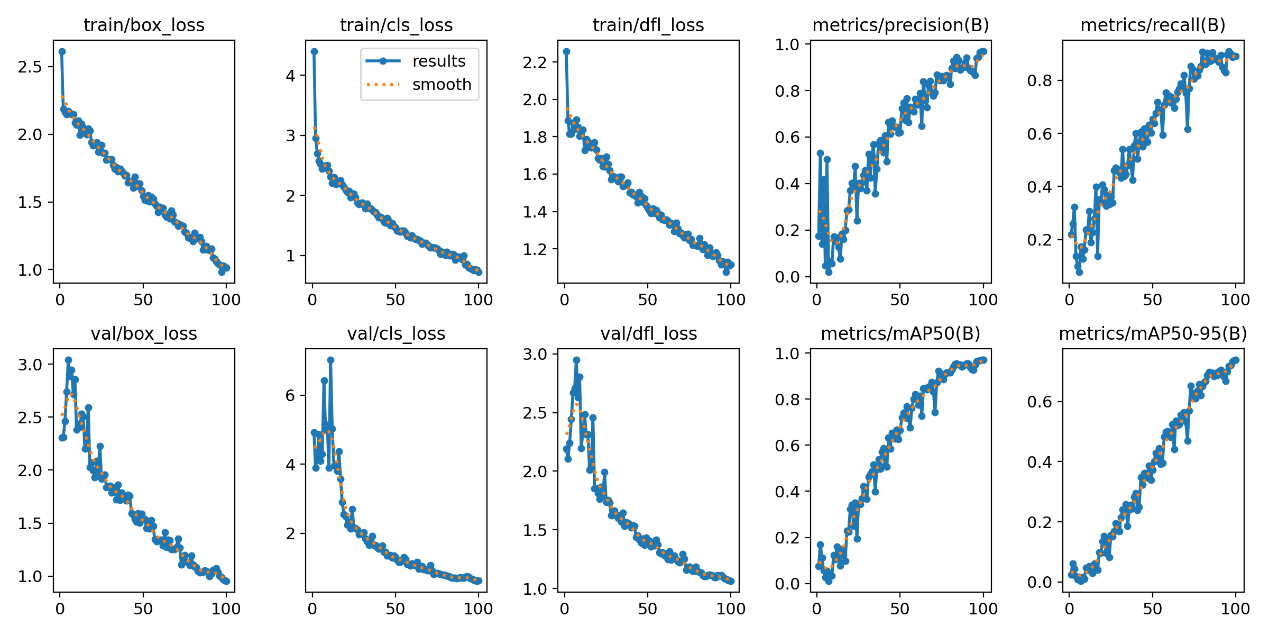
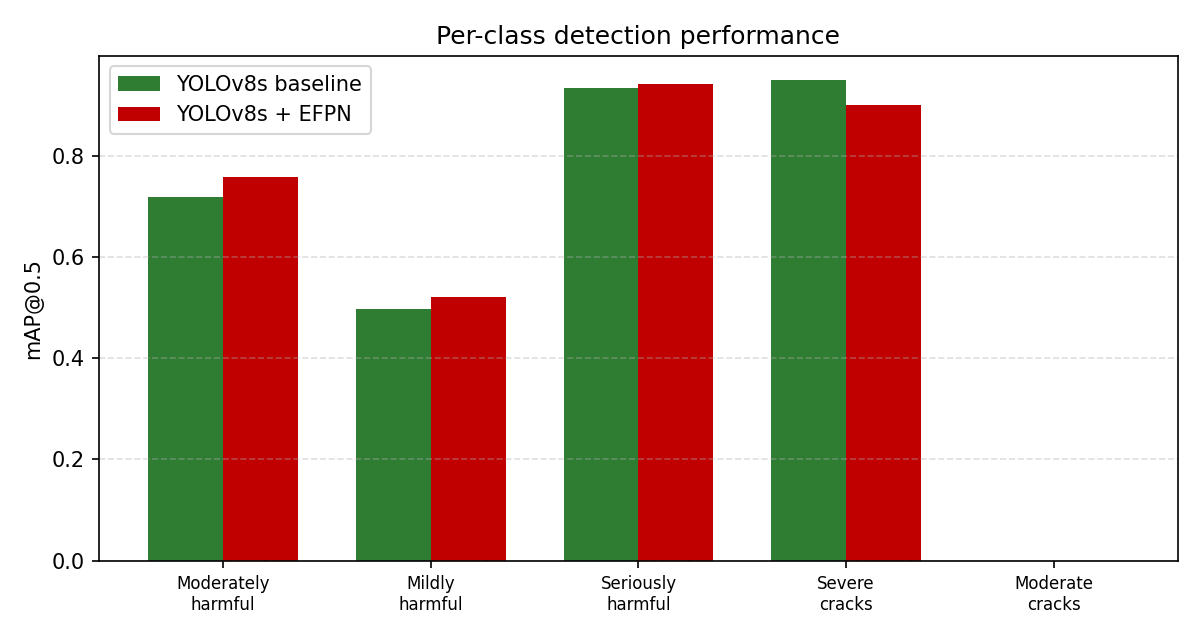
Update gallery to latest paper figures and add GitHub link
- Prediction gallery: replace 1 stale image with 4 current figures from the
  BP-LSTM paper (framework, research workflow, TQM factor framework,
  ten-algorithm performance comparison)
- Inspection gallery: rebuild from the current robotic-dog paper
  (detection performance, CBAM/EFPN ablation, per-class performance,
  qualitative examples, field validation, training curves, F1 curve)
- Correct inspection captions: proposed detector is improved YOLOv8 (EFPN)
- Add GitHub link to hero contacts, contact card and footer
- Remove superseded/duplicate images

diff --git a/index-en.html b/index-en.html
@@ -63,6 +63,10 @@
           <svg viewBox="0 0 24 24" fill="none" stroke="currentColor" stroke-width="2"><path d="M20 10c0 6-8 12-8 12s-8-6-8-12a8 8 0 0 1 16 0z"/><circle cx="12" cy="10" r="3"/></svg>
           Hong Kong SAR, China
         </span>
+        <a href="https://github.com/xiao-yang-sanyi" target="_blank" rel="noopener">
+          <svg viewBox="0 0 24 24" fill="none" stroke="currentColor" stroke-width="2"><path d="M9 19c-5 1.5-5-2.5-7-3m14 6v-3.87a3.37 3.37 0 0 0-.94-2.61c3.14-.35 6.44-1.54 6.44-7A5.44 5.44 0 0 0 20 4.77 5.07 5.07 0 0 0 19.91 1S18.73.65 16 2.48a13.38 13.38 0 0 0-7 0C6.27.65 5.09 1 5.09 1A5.07 5.07 0 0 0 5 4.77a5.44 5.44 0 0 0-1.5 3.78c0 5.42 3.3 6.61 6.44 7A3.37 3.37 0 0 0 9 18.13V22"/></svg>
+          github.com/xiao-yang-sanyi
+        </a>
       </div>
     </div>
 
@@ -546,52 +550,67 @@
         <span class="zoom">⤢</span>
       </figure>
 
-      <!-- Prediction -->
+            <!-- Prediction -->
       <figure class="g-item" data-cat="predict">
-        <img class="thumb" src="assets/img/bplstm-model.png" alt="BP-LSTM network" loading="lazy" />
-        <div class="cap"><span class="tag">Prediction · Fig. 4</span>BP‑LSTM dual-stream network and model comparison</div>
+        <img class="thumb" src="assets/img/bplstm-framework.png" alt="LSTM-based quality prediction framework" loading="lazy" />
+        <div class="cap"><span class="tag">Prediction · Fig. 2</span>LSTM-based quality prediction framework</div>
+        <span class="zoom">⤢</span>
+      </figure>
+      <figure class="g-item" data-cat="predict">
+        <img class="thumb" src="assets/img/bplstm-workflow.png" alt="Research workflow for quality prediction" loading="lazy" />
+        <div class="cap"><span class="tag">Prediction · Fig. 3</span>Research workflow for quality prediction</div>
+        <span class="zoom">⤢</span>
+      </figure>
+      <figure class="g-item" data-cat="predict">
+        <img class="thumb" src="assets/img/bplstm-factors.png" alt="TQM total-factor framework" loading="lazy" />
+        <div class="cap"><span class="tag">Prediction · Fig. 4</span>TQM total-factor framework (12 influence factors)</div>
+        <span class="zoom">⤢</span>
+      </figure>
+      <figure class="g-item" data-cat="predict">
+        <img class="thumb" src="assets/img/bplstm-comparison.png" alt="Comparison of ten algorithms" loading="lazy" />
+        <div class="cap"><span class="tag">Prediction · Fig. 5</span>Performance comparison of ten algorithms (MAE / R² / error rate / RSE)</div>
         <span class="zoom">⤢</span>
       </figure>
 
       <!-- Inspection -->
       <figure class="g-item" data-cat="inspect">
-        <img class="thumb" src="assets/img/crack-framework.png" alt="Robotic inspection framework" loading="lazy" />
-        <div class="cap"><span class="tag">Inspection · Fig. 1</span>Proposed robotic inspection framework</div>
+        <img class="thumb" src="assets/img/crack-framework.png" alt="Robotic crack detection and risk assessment framework" loading="lazy" />
+        <div class="cap"><span class="tag">Inspection · Fig. 1</span>Robotic crack detection and risk assessment framework</div>
         <span class="zoom">⤢</span>
       </figure>
       <figure class="g-item" data-cat="inspect">
-        <img class="thumb" src="assets/img/crack-detection-1.png" alt="Detection comparison results" loading="lazy" />
-        <div class="cap"><span class="tag">Inspection</span>Detection comparison test results</div>
+        <img class="thumb" src="assets/img/crack-det-perf.png" alt="Detection performance of tested detectors" loading="lazy" />
+        <div class="cap"><span class="tag">Inspection · Fig. 3</span>Detection performance (mAP@0.5) of tested detectors</div>
         <span class="zoom">⤢</span>
       </figure>
       <figure class="g-item" data-cat="inspect">
-        <img class="thumb" src="assets/img/crack-detection-2.png" alt="Feature fusion ablation results" loading="lazy" />
-        <div class="cap"><span class="tag">Inspection</span>Feature fusion ablation results</div>
+        <img class="thumb" src="assets/img/crack-ablation.png" alt="Ablation of CBAM and EFPN" loading="lazy" />
+        <div class="cap"><span class="tag">Inspection · Fig. 4</span>Ablation of the CBAM module and the EFPN neck</div>
         <span class="zoom">⤢</span>
       </figure>
       <figure class="g-item" data-cat="inspect">
-        <img class="thumb" src="assets/img/crack-ablation.png" alt="Ablation study accuracy impact" loading="lazy" />
-        <div class="cap"><span class="tag">Inspection · Fig. 2</span>Ablation study accuracy impact</div>
+        <img class="thumb" src="assets/img/crack-perclass.png" alt="Per-class detection performance" loading="lazy" />
+        <div class="cap"><span class="tag">Inspection · Fig. 5</span>Per-class crack detection performance</div>
         <span class="zoom">⤢</span>
       </figure>
       <figure class="g-item" data-cat="inspect">
-        <img class="thumb" src="assets/img/crack-field-1.png" alt="Improved YOLOv8 (EFPN) vs YOLOv11 comparison" loading="lazy" />
-        <div class="cap"><span class="tag">Inspection</span>Improved YOLOv8 (EFPN) vs. YOLOv11 comparison</div>
+        <img class="thumb" src="assets/img/crack-qualitative.png" alt="Qualitative crack detection examples" loading="lazy" />
+        <div class="cap"><span class="tag">Inspection · Fig. 6</span>Qualitative detection examples on precast components</div>
         <span class="zoom">⤢</span>
       </figure>
       <figure class="g-item" data-cat="inspect">
-        <img class="thumb" src="assets/img/crack-field-2.png" alt="Field inspection results" loading="lazy" />
-        <div class="cap"><span class="tag">Inspection</span>Field inspection results on prefabricated components</div>
+        <img class="thumb" src="assets/img/crack-field.png" alt="Field validation on the Unitree B2" loading="lazy" />
+        <div class="cap"><span class="tag">Inspection · Fig. 7</span>Field validation: severity grading vs. coarse detector</div>
         <span class="zoom">⤢</span>
       </figure>
       <figure class="g-item" data-cat="inspect">
-        <img class="thumb" src="assets/img/crack-perclass.png" alt="Per-class detection accuracy" loading="lazy" />
-        <div class="cap"><span class="tag">Inspection · Fig. 3</span>Per-class detection accuracy comparison</div>
+        <img class="thumb" src="assets/img/crack-training.png" alt="Model training curves" loading="lazy" />
+        <div class="cap"><span class="tag">Inspection</span>Model training curves</div>
         <span class="zoom">⤢</span>
       </figure>
       <figure class="g-item" data-cat="inspect">
-        <img class="thumb" src="assets/img/crack-matrix.png" alt="Detection evaluation summary" loading="lazy" />
-        <div class="cap"><span class="tag">Inspection</span>Detection evaluation summary</div>
+        <img class="thumb" src="assets/img/crack-f1.png" alt="F1-confidence curve" loading="lazy" />
+        <div class="cap"><span class="tag">Inspection</span>F1–confidence curve</div>
         <span class="zoom">⤢</span>
       </figure>
     </div>
@@ -618,6 +637,10 @@
           <svg viewBox="0 0 24 24" fill="none" stroke="currentColor" stroke-width="2"><path d="M20 10c0 6-8 12-8 12s-8-6-8-12a8 8 0 0 1 16 0z"/><circle cx="12" cy="10" r="3"/></svg>
           Hong Kong SAR, China
         </span>
+        <a class="c" href="https://github.com/xiao-yang-sanyi" target="_blank" rel="noopener">
+          <svg viewBox="0 0 24 24" fill="none" stroke="currentColor" stroke-width="2"><path d="M9 19c-5 1.5-5-2.5-7-3m14 6v-3.87a3.37 3.37 0 0 0-.94-2.61c3.14-.35 6.44-1.54 6.44-7A5.44 5.44 0 0 0 20 4.77 5.07 5.07 0 0 0 19.91 1S18.73.65 16 2.48a13.38 13.38 0 0 0-7 0C6.27.65 5.09 1 5.09 1A5.07 5.07 0 0 0 5 4.77a5.44 5.44 0 0 0-1.5 3.78c0 5.42 3.3 6.61 6.44 7A3.37 3.37 0 0 0 9 18.13V22"/></svg>
+          GitHub · xiao-yang-sanyi
+        </a>
       </div>
       <a class="btn btn-primary" href="mailto:yanggj.xiao@connect.polyu.hk">Email Me ✉</a>
     </div>
@@ -627,7 +650,8 @@
 <footer class="site-footer">
   <div class="container">
     <span class="mono">Yanggongjie Xiao · 肖阳功杰</span> — Academic Portfolio<br />
-    © <span id="year">2026</span> · Intelligent Construction · Quality Management · Multimodal Intelligence
+    © <span id="year">2026</span> · Intelligent Construction · Quality Management · Multimodal Intelligence<br />
+    <a href="https://github.com/xiao-yang-sanyi" target="_blank" rel="noopener">github.com/xiao-yang-sanyi</a>
   </div>
 </footer>
 

diff --git a/index.html b/index.html
@@ -66,6 +66,10 @@
           <svg viewBox="0 0 24 24" fill="none" stroke="currentColor" stroke-width="2"><path d="M20 10c0 6-8 12-8 12s-8-6-8-12a8 8 0 0 1 16 0z"/><circle cx="12" cy="10" r="3"/></svg>
           香港 · 中国 Hong Kong SAR
         </span>
+        <a href="https://github.com/xiao-yang-sanyi" target="_blank" rel="noopener">
+          <svg viewBox="0 0 24 24" fill="none" stroke="currentColor" stroke-width="2"><path d="M9 19c-5 1.5-5-2.5-7-3m14 6v-3.87a3.37 3.37 0 0 0-.94-2.61c3.14-.35 6.44-1.54 6.44-7A5.44 5.44 0 0 0 20 4.77 5.07 5.07 0 0 0 19.91 1S18.73.65 16 2.48a13.38 13.38 0 0 0-7 0C6.27.65 5.09 1 5.09 1A5.07 5.07 0 0 0 5 4.77a5.44 5.44 0 0 0-1.5 3.78c0 5.42 3.3 6.61 6.44 7A3.37 3.37 0 0 0 9 18.13V22"/></svg>
+          github.com/xiao-yang-sanyi
+        </a>
       </div>
     </div>
 
@@ -549,52 +553,67 @@
         <span class="zoom">⤢</span>
       </figure>
 
-      <!-- Prediction -->
+            <!-- Prediction -->
       <figure class="g-item" data-cat="predict">
-        <img class="thumb" src="assets/img/bplstm-model.png" alt="BP-LSTM network" loading="lazy" />
-        <div class="cap"><span class="tag">Prediction · Fig. 4</span>BP‑LSTM 双流网络与对比验证</div>
+        <img class="thumb" src="assets/img/bplstm-framework.png" alt="LSTM-based quality prediction framework" loading="lazy" />
+        <div class="cap"><span class="tag">Prediction · Fig. 2</span>LSTM 质量预测框架</div>
+        <span class="zoom">⤢</span>
+      </figure>
+      <figure class="g-item" data-cat="predict">
+        <img class="thumb" src="assets/img/bplstm-workflow.png" alt="Research workflow for quality prediction" loading="lazy" />
+        <div class="cap"><span class="tag">Prediction · Fig. 3</span>质量预测研究流程</div>
+        <span class="zoom">⤢</span>
+      </figure>
+      <figure class="g-item" data-cat="predict">
+        <img class="thumb" src="assets/img/bplstm-factors.png" alt="TQM total-factor framework" loading="lazy" />
+        <div class="cap"><span class="tag">Prediction · Fig. 4</span>TQM 全面影响因素框架（12 个影响因素）</div>
+        <span class="zoom">⤢</span>
+      </figure>
+      <figure class="g-item" data-cat="predict">
+        <img class="thumb" src="assets/img/bplstm-comparison.png" alt="Comparison of ten algorithms" loading="lazy" />
+        <div class="cap"><span class="tag">Prediction · Fig. 5</span>十种算法性能对比（MAE / R² / 误差率 / RSE）</div>
         <span class="zoom">⤢</span>
       </figure>
 
       <!-- Inspection -->
       <figure class="g-item" data-cat="inspect">
-        <img class="thumb" src="assets/img/crack-framework.png" alt="Robotic inspection framework" loading="lazy" />
-        <div class="cap"><span class="tag">Inspection · Fig. 1</span>机器人智能检测框架</div>
+        <img class="thumb" src="assets/img/crack-framework.png" alt="Robotic crack detection and risk assessment framework" loading="lazy" />
+        <div class="cap"><span class="tag">Inspection · Fig. 1</span>机器人裂缝检测与风险评估总体框架</div>
         <span class="zoom">⤢</span>
       </figure>
       <figure class="g-item" data-cat="inspect">
-        <img class="thumb" src="assets/img/crack-detection-1.png" alt="Detection comparison results" loading="lazy" />
-        <div class="cap"><span class="tag">Inspection</span>检测对比测试结果</div>
+        <img class="thumb" src="assets/img/crack-det-perf.png" alt="Detection performance of tested detectors" loading="lazy" />
+        <div class="cap"><span class="tag">Inspection · Fig. 3</span>各检测器 mAP@0.5 性能对比</div>
         <span class="zoom">⤢</span>
       </figure>
       <figure class="g-item" data-cat="inspect">
-        <img class="thumb" src="assets/img/crack-detection-2.png" alt="Feature fusion ablation results" loading="lazy" />
-        <div class="cap"><span class="tag">Inspection</span>特征融合消融实验结果</div>
+        <img class="thumb" src="assets/img/crack-ablation.png" alt="Ablation of CBAM and EFPN" loading="lazy" />
+        <div class="cap"><span class="tag">Inspection · Fig. 4</span>CBAM 与 EFPN 消融实验</div>
         <span class="zoom">⤢</span>
       </figure>
       <figure class="g-item" data-cat="inspect">
-        <img class="thumb" src="assets/img/crack-ablation.png" alt="Ablation study accuracy impact" loading="lazy" />
-        <div class="cap"><span class="tag">Inspection · Fig. 2</span>消融实验精度影响</div>
+        <img class="thumb" src="assets/img/crack-perclass.png" alt="Per-class detection performance" loading="lazy" />
+        <div class="cap"><span class="tag">Inspection · Fig. 5</span>各类别裂缝检测性能对比</div>
         <span class="zoom">⤢</span>
       </figure>
       <figure class="g-item" data-cat="inspect">
-        <img class="thumb" src="assets/img/crack-field-1.png" alt="Improved YOLOv8 (EFPN) vs YOLOv11 comparison" loading="lazy" />
-        <div class="cap"><span class="tag">Inspection</span>改进 YOLOv8（EFPN）与 YOLOv11 对比</div>
+        <img class="thumb" src="assets/img/crack-qualitative.png" alt="Qualitative crack detection examples" loading="lazy" />
+        <div class="cap"><span class="tag">Inspection · Fig. 6</span>预制构件裂缝检测定性结果</div>
         <span class="zoom">⤢</span>
       </figure>
       <figure class="g-item" data-cat="inspect">
-        <img class="thumb" src="assets/img/crack-field-2.png" alt="Field inspection results" loading="lazy" />
-        <div class="cap"><span class="tag">Inspection</span>装配式现场检测结果</div>
+        <img class="thumb" src="assets/img/crack-field.png" alt="Field validation on the Unitree B2" loading="lazy" />
+        <div class="cap"><span class="tag">Inspection · Fig. 7</span>现场验证：严重程度分级 vs 粗略检测器</div>
         <span class="zoom">⤢</span>
       </figure>
       <figure class="g-item" data-cat="inspect">
-        <img class="thumb" src="assets/img/crack-perclass.png" alt="Per-class detection accuracy" loading="lazy" />
-        <div class="cap"><span class="tag">Inspection · Fig. 3</span>按类别检测精度对比</div>
+        <img class="thumb" src="assets/img/crack-training.png" alt="Model training curves" loading="lazy" />
+        <div class="cap"><span class="tag">Inspection</span>模型训练过程曲线</div>
         <span class="zoom">⤢</span>
       </figure>
       <figure class="g-item" data-cat="inspect">
-        <img class="thumb" src="assets/img/crack-matrix.png" alt="Detection evaluation summary" loading="lazy" />
-        <div class="cap"><span class="tag">Inspection</span>检测评估汇总</div>
+        <img class="thumb" src="assets/img/crack-f1.png" alt="F1-confidence curve" loading="lazy" />
+        <div class="cap"><span class="tag">Inspection</span>F1–置信度曲线</div>
         <span class="zoom">⤢</span>
       </figure>
     </div>
@@ -621,6 +640,10 @@
           <svg viewBox="0 0 24 24" fill="none" stroke="currentColor" stroke-width="2"><path d="M20 10c0 6-8 12-8 12s-8-6-8-12a8 8 0 0 1 16 0z"/><circle cx="12" cy="10" r="3"/></svg>
           Hong Kong SAR, China
         </span>
+        <a class="c" href="https://github.com/xiao-yang-sanyi" target="_blank" rel="noopener">
+          <svg viewBox="0 0 24 24" fill="none" stroke="currentColor" stroke-width="2"><path d="M9 19c-5 1.5-5-2.5-7-3m14 6v-3.87a3.37 3.37 0 0 0-.94-2.61c3.14-.35 6.44-1.54 6.44-7A5.44 5.44 0 0 0 20 4.77 5.07 5.07 0 0 0 19.91 1S18.73.65 16 2.48a13.38 13.38 0 0 0-7 0C6.27.65 5.09 1 5.09 1A5.07 5.07 0 0 0 5 4.77a5.44 5.44 0 0 0-1.5 3.78c0 5.42 3.3 6.61 6.44 7A3.37 3.37 0 0 0 9 18.13V22"/></svg>
+          GitHub · xiao-yang-sanyi
+        </a>
       </div>
       <a class="btn btn-primary" href="mailto:yanggj.xiao@connect.polyu.hk">发送邮件 ✉</a>
     </div>
@@ -630,7 +653,8 @@
 <footer class="site-footer">
   <div class="container">
     <span class="mono">Yanggongjie Xiao · 肖阳功杰</span> — 学术主页 Academic Portfolio<br />
-    © <span id="year">2026</span> · 智能建造 · 质量管理 · 多模态智能
+    © <span id="year">2026</span> · 智能建造 · 质量管理 · 多模态智能<br />
+    <a href="https://github.com/xiao-yang-sanyi" target="_blank" rel="noopener">github.com/xiao-yang-sanyi</a>
   </div>
 </footer>
 

diff --git a/css/style.css b/css/style.css
@@ -273,7 +273,9 @@ h1, h2, h3, h4 { font-weight: 700; line-height: 1.22; letter-spacing: -0.01em; }
   font-size: 0.88rem; color: var(--text-faint);
   font-family: var(--mono);
 }
-.hero-contacts span { display: inline-flex; align-items: center; gap: 7px; }
+.hero-contacts span, .hero-contacts a { display: inline-flex; align-items: center; gap: 7px; }
+.hero-contacts a { color: inherit; text-decoration: none; transition: color .2s; }
+.hero-contacts a:hover { color: var(--teal); }
 .hero-contacts svg { width: 15px; height: 15px; opacity: .75; }
 
 /* Hero right: floating stats / orbit */
